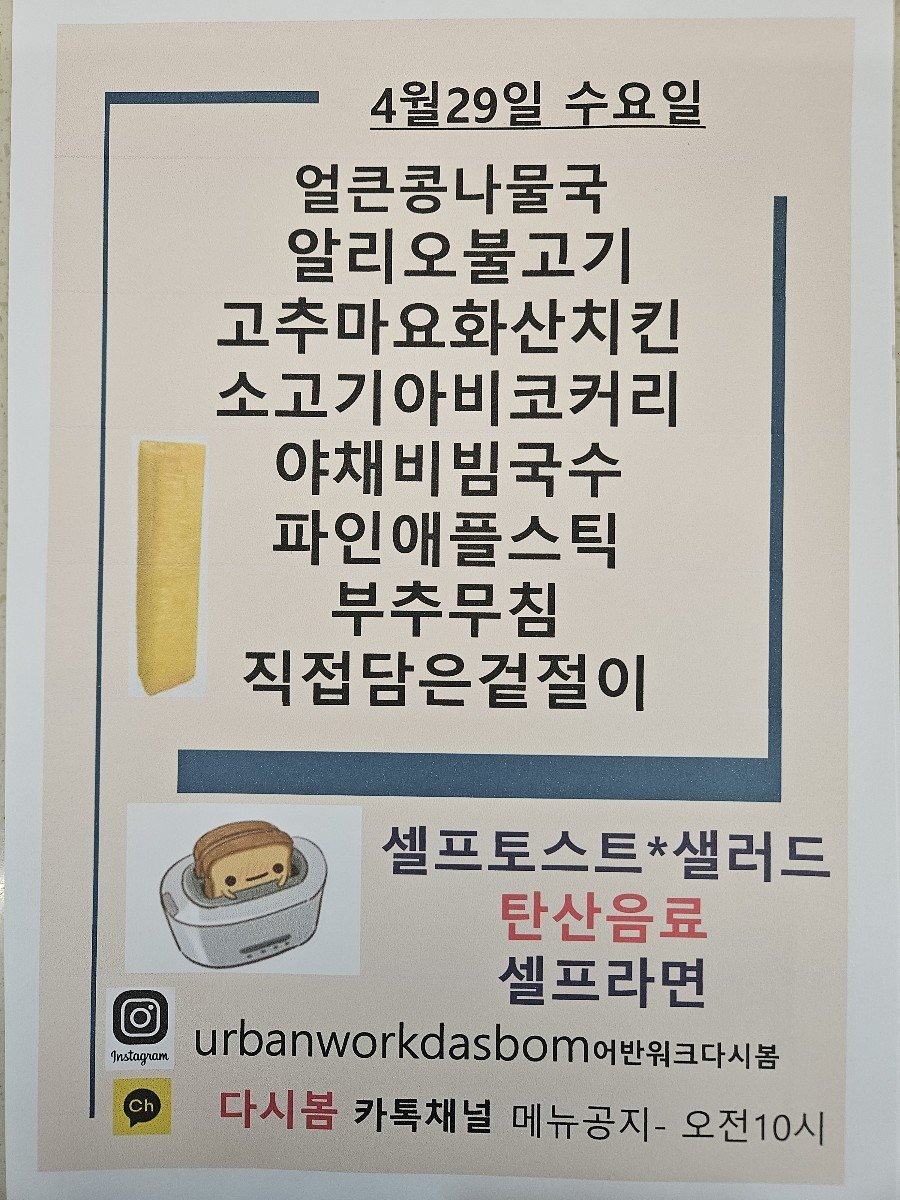
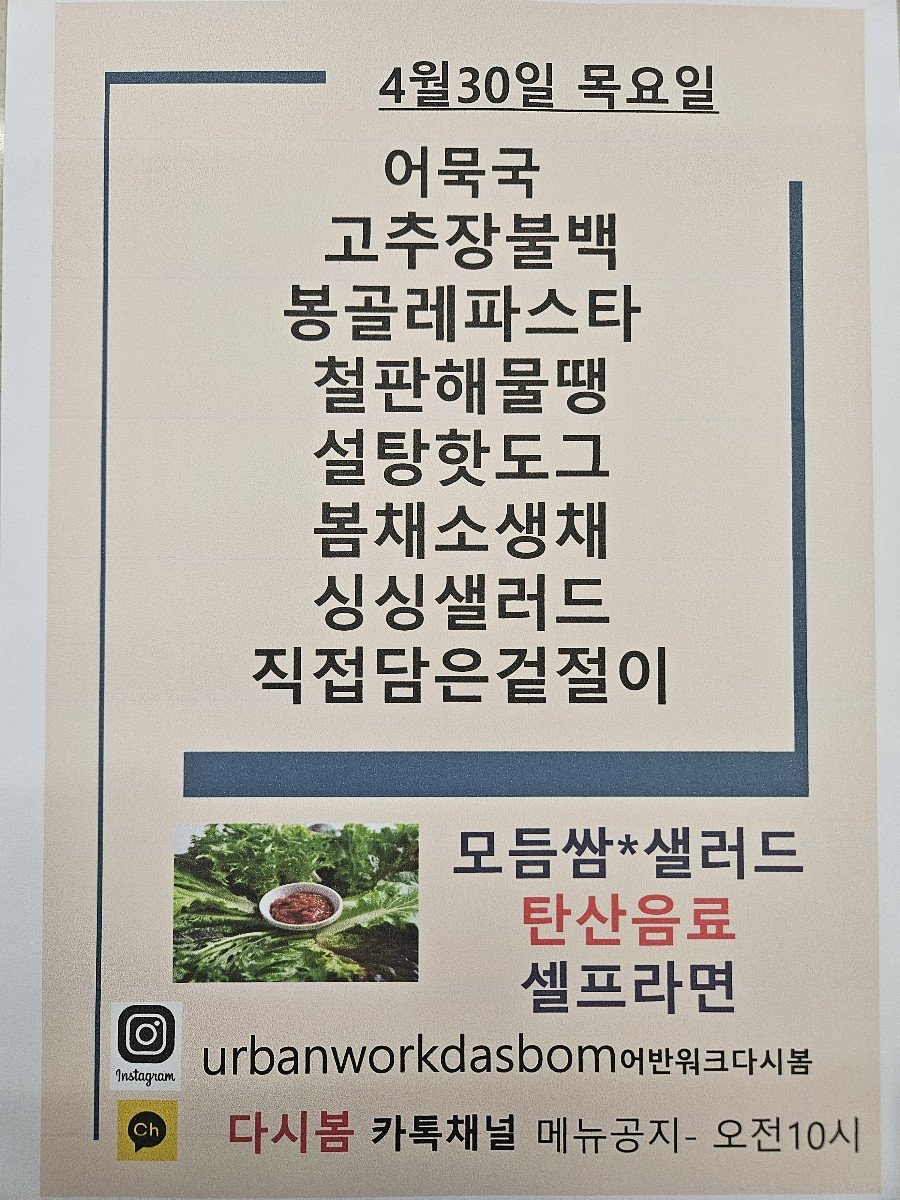
Update menu board assets

diff --git a/menu-today/index.html b/menu-today/index.html
@@ -244,7 +244,7 @@
 
     <section class="meta-bar">
       <div class="meta-card"><div class="meta-label">기준 날짜</div><div class="meta-value">2026년 4월 30일 목요일</div></div>
-      <div class="meta-card"><div class="meta-label">최종 가져온 시간</div><div class="meta-value">2026-04-30 09:32:40</div></div>
+      <div class="meta-card"><div class="meta-label">최종 가져온 시간</div><div class="meta-value">2026-04-30 09:47:56</div></div>
       <div class="meta-card"><div class="meta-label">확인 완료</div><div class="meta-value">10개 식당</div></div>
       <div class="meta-card"><div class="meta-label">준비중</div><div class="meta-value">3개 채널</div></div>
     </section>
@@ -280,7 +280,7 @@
           </div>
           <button class="badge image-button" type="button" data-image="./images/dasibom.png" data-title="다시 봄">메뉴 이미지 확인</button>
         </div>
-        <div class="info-note">오늘 메뉴 미수집 상태입니다.</div>
+        <ul><li>어묵국</li><li>고주장물백</li><li>동골레파스타</li><li>철판해물맹</li><li>설탕핫도그</li><li>봄채소생채</li><li>샐러드</li><li>직접담은겉절이</li><li>요일</li><li>고추장불</li><li>봉골레파스타</li></ul>
       </article>
 
       <article class="restaurant-card">
@@ -370,7 +370,7 @@
           </div>
           <button class="badge image-button" type="button" data-image="./images/thefoodsketch.png" data-title="더푸드스케치">메뉴 이미지 확인</button>
         </div>
-        <ul><li>냉이딜래된장찌개</li><li>대패삼겹실구이</li><li>치킨까스 &amp; 허니머스타드S</li><li>감자전</li><li>미나리오징어초무침</li><li>가든샐러드 / 드레싱</li><li>배추겉절이 / 음료</li><li>수세소세지</li><li>미나리초무침</li><li>미니치킨까스 / 머스타드</li></ul>
+        <ul><li>냉이딜래된장찌개</li><li>대패삼겹실구이</li><li>치킨까스 &amp; 허니머스타드S</li><li>감자전</li><li>미나리오징어초무침</li><li>가든샐러드 &amp; 드레싱</li><li>배추겉절이 / 음료</li><li>수세소세지</li><li>미나리초무침</li><li>미니치킨까스 / 머스타드</li></ul>
       </article>
 
       <article class="restaurant-card">
